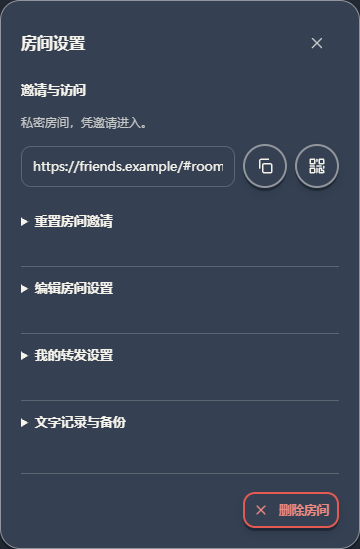
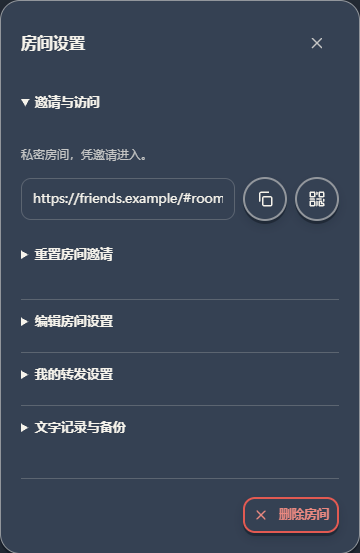
fix(ui): keep room management focused on one task

diff --git a/src/client/channel/components/ChannelRoomControls.tsx b/src/client/channel/components/ChannelRoomControls.tsx
@@ -1,4 +1,4 @@
-import { useEffect, useRef, useState } from "react";
+import { useEffect, useId, useRef, useState, type ToggleEvent } from "react";
 import { useAnchoredPopover } from "../../components/living/use-anchored-popover";
 import { Tooltip } from "../../components/living/Tooltip";
 import { Btn, SwitchItem } from "../../components/living/primitives";
@@ -134,6 +134,11 @@ export function ChannelRoomControls({ channel, room, onCreated }: {
   const invitationCopy = useClipboardResult(invite);
   const [backupAvailable, setBackupAvailable] = useState(false);
   const id = room ? "c3-room-settings" : "c3-create-room";
+  const taskGroup = useId();
+  const revealTask = (event: ToggleEvent<HTMLDetailsElement>) => {
+    if (event.target === event.currentTarget && event.newState === "open" && panel.current?.matches(":popover-open"))
+      event.currentTarget.querySelector("summary")?.scrollIntoView({ block: "nearest" });
+  };
   const title = room ? (zh ? "房间设置" : "Room settings") : (zh ? "创建房间" : "Create room");
   const triggerTitle = room ? (zh ? "房间选项" : "Room options") : title;
   useAnchoredPopover(trigger, panel, { side: "below", align: "end" });
@@ -178,11 +183,11 @@ export function ChannelRoomControls({ channel, room, onCreated }: {
     <div ref={panel} id={id} popover="auto" role="dialog" aria-label={title}
       className="lr-anchored-card c3-room-panel" onToggle={event => { if (event.target === event.currentTarget) setOpen(event.newState === "open"); }}>
       {open && <><header className="c3-settings-heading"><h3>{title}</h3>
-        <ChannelAction icon="x" iconOnly quiet label={zh ? "关闭" : "Close"} onClick={() => panel.current?.hidePopover()} /></header>
+        <ChannelAction icon="x" iconOnly quiet hint="hint-close" label={zh ? "关闭" : "Close"} onClick={() => panel.current?.hidePopover()} /></header>
       {room && !room.available && <p>{room.canManage ? (zh ? "房间当前未托管，可以从域中移除。" : "This room is offline. You can remove it from the domain.")
         : (zh ? "房间当前未托管，恢复后可调整转发设置。" : "The room is offline. Forwarding settings will be available when hosting resumes.")}</p>}
-      {room && <section className="c3-settings-access" aria-label={zh ? "邀请与访问" : "Invitation and access"}>
-        <h4>{zh ? "邀请与访问" : "Invitation and access"}</h4>
+      {room && <details className="c3-settings-details c3-settings-access" name={taskGroup} onToggle={revealTask} open>
+        <summary>{zh ? "邀请与访问" : "Invitation and access"}</summary>
         <p>{room.access === "public" ? (zh ? "公开房间，域内用户都可进入。" : "Public room. Anyone in this domain can enter.")
           : room.hasPassword ? (zh ? "私密房间，凭邀请或密码进入。" : "Private room. Enter with an invitation or password.")
             : (zh ? "私密房间，凭邀请进入。" : "Private room. Enter with an invitation.")}
@@ -213,8 +218,8 @@ export function ChannelRoomControls({ channel, room, onCreated }: {
                 busy={channel.pending.has(`revoke:${room.id}:${userId}`)} disabled={!available || working}
                 onClick={() => run(channel.revokeRoomAccess(room.id, userId))} /></div>)}
         </details>}
-      </section>}</section>}
-      {(!room || room.canManage) && <details className="c3-settings-details c3-settings-editor" open={!room || undefined} hidden={!!room && !room.available}>
+      </section>}</details>}
+      {(!room || room.canManage) && <details className="c3-settings-details c3-settings-editor" name={taskGroup} onToggle={revealTask} open={!room || undefined} hidden={!!room && !room.available}>
         <summary>{room ? (zh ? "编辑房间设置" : "Edit room settings") : (zh ? "新房间" : "New room")}</summary>
         <RoomForm key={`form:${room?.delivery?.bindingId ?? room?.id ?? "create"}`} room={room} appHosted={channel.appConnected} disabled={!available || working} busy={busy} onCancel={() => panel.current?.hidePopover()} onSave={async settings => {
           const form = panel.current?.querySelector("form");
@@ -223,10 +228,10 @@ export function ChannelRoomControls({ channel, room, onCreated }: {
           if (panel.current?.matches(":popover-open") && panel.current.querySelector("form") === form) panel.current.hidePopover();
         }} />
       </details>}
-      {room?.authorized && <details className="c3-settings-details"><summary>{zh ? "我的转发设置" : "My forwarding settings"}</summary>
+      {room?.authorized && <details className="c3-settings-details" name={taskGroup} onToggle={revealTask}><summary>{zh ? "我的转发设置" : "My forwarding settings"}</summary>
         <PersonalRelay channel={channel} room={room} disabled={!available || working} />
       </details>}
-      {(!room || room.authorized || room.canManage) && <details className="c3-settings-details"><summary>{room ? (zh ? "文字记录与备份" : "Chat text and backups") : (zh ? "从备份导入房间" : "Import a room backup")}</summary>
+      {(!room || room.authorized || room.canManage) && <details className="c3-settings-details" name={taskGroup} onToggle={revealTask}><summary>{room ? (zh ? "文字记录与备份" : "Chat text and backups") : (zh ? "从备份导入房间" : "Import a room backup")}</summary>
         {room?.authorized && <RoomChatExport messages={channel.messagesByRoom[room.id] ?? []} users={channel.state?.users ?? []} />}
         {(!room || room.canManage) && <BackupControls key={room?.id ?? "import"} available={!room || backupAvailable} disabled={!available || busy || removing || (!!room && !backupAvailable)}
           busy={backupBusy} replacing={!!room}

diff --git a/src/client/channel/components/ChannelDomainControls.tsx b/src/client/channel/components/ChannelDomainControls.tsx
@@ -1,4 +1,4 @@
-import { useEffect, useId, useRef, useState } from "react";
+import { useEffect, useId, useRef, useState, type ToggleEvent } from "react";
 import { createPortal } from "react-dom";
 import { useAnchoredPopover } from "../../components/living/use-anchored-popover";
 import { Tooltip } from "../../components/living/Tooltip";
@@ -41,6 +41,10 @@ export function ChannelDomainControls({ channel, triggerSlot }: { channel: Chann
     setPassword(""); setRemovePassword(false); setInviteReset(false);
   };
   const title = zh ? "域设置" : "Domain settings";
+  const revealTask = (event: ToggleEvent<HTMLDetailsElement>) => {
+    if (event.target === event.currentTarget && event.newState === "open" && panel.current?.matches(":popover-open"))
+      event.currentTarget.querySelector("summary")?.scrollIntoView({ block: "nearest" });
+  };
   useAnchoredPopover(trigger, panel, { side: "below", align: "end" });
   useEffect(() => { if (!owner) setPassword(""); }, [owner]);
   return <>
@@ -56,9 +60,9 @@ export function ChannelDomainControls({ channel, triggerSlot }: { channel: Chann
         if (event.newState === "closed") { setImageBusy(false); setPassword(""); }
       }}>
       {open && <><header className="c3-settings-heading"><h3>{title}</h3>
-        <ChannelAction icon="x" iconOnly quiet label={zh ? "关闭" : "Close"} onClick={() => panel.current?.hidePopover()} /></header>
-      <section className="c3-settings-access" aria-label={zh ? "邀请与访问" : "Invitation and access"}>
-        <h4>{zh ? "邀请与访问" : "Invitation and access"}</h4>
+        <ChannelAction icon="x" iconOnly quiet hint="hint-close" label={zh ? "关闭" : "Close"} onClick={() => panel.current?.hidePopover()} /></header>
+      <details className="c3-settings-details c3-settings-access" name={`${id}-task`} onToggle={revealTask} open>
+        <summary>{zh ? "邀请与访问" : "Invitation and access"}</summary>
         <p>{!current ? (zh ? "域连接暂不可用。" : "The domain connection is unavailable.")
           : current.access === "public" ? (zh ? "公开域，任何人可通过域地址进入。" : "Public domain. Anyone with its address can enter.")
             : current.hasPassword ? (zh ? "私密域，凭邀请或口令进入。" : "Private domain. Enter with an invitation or passphrase.")
@@ -81,8 +85,8 @@ export function ChannelDomainControls({ channel, triggerSlot }: { channel: Chann
             }} />
           {inviteReset && <p role="status">{zh ? "域邀请已更新，请复制新的邀请。" : "Domain invitation updated. Copy the new invitation."}</p>}
         </details>}
-      </section>
-      <details className="c3-settings-details c3-settings-editor"><summary>{zh ? "编辑域设置" : "Edit domain settings"}</summary>
+      </details>
+      <details className="c3-settings-details c3-settings-editor" name={`${id}-task`} onToggle={revealTask}><summary>{zh ? "编辑域设置" : "Edit domain settings"}</summary>
       <form className="c3-room-form" onKeyDown={event => {
         if (event.key === "Enter" && event.nativeEvent.isComposing) event.preventDefault();
       }} onSubmit={event => {
@@ -117,7 +121,7 @@ export function ChannelDomainControls({ channel, triggerSlot }: { channel: Chann
           <ChannelAction icon="check" primary type="submit" label={zh ? "保存" : "Save"} busy={busy} disabled={disabled || imageBusy || !name.trim()} />
         </div>
       </form></details>
-      <details className="c3-settings-details"><summary>{zh ? "域备份" : "Domain backup"}</summary>
+      <details className="c3-settings-details" name={`${id}-task`} onToggle={revealTask}><summary>{zh ? "域备份" : "Domain backup"}</summary>
       <BackupControls kind="domain" busy={backupBusy} disabled={unavailable || busy || inviteBusy}
         onExport={channel.exportDomainBackup} onRestore={async file => {
           setPassword("");

diff --git a/src/client/channel/components/channel-room-controls.css b/src/client/channel/components/channel-room-controls.css
@@ -2,12 +2,13 @@
 .c3-room-panel h3 { font-size: 16px; margin: 0 0 18px; }
 .c3-settings-heading { display: flex; align-items: center; justify-content: space-between; gap: 12px; margin-bottom: 16px; }
 .c3-settings-heading h3 { margin: 0; }
-.c3-settings-access { display: grid; gap: 12px; }
-.c3-settings-access h4 { margin: 0; font-size: 13px; }
+.c3-settings-access > :not(summary) { margin-top: 12px; }
 .c3-invite-actions { display: flex; align-items: center; flex-wrap: wrap; gap: 8px; }
 .c3-settings-details { min-width: 0; }
 .c3-settings-details > summary { min-height: var(--control-size); padding-block: 12px; font-size: 13px; font-weight: 600; cursor: pointer; }
-.c3-room-panel > .c3-settings-details { margin-top: 14px; border-top: 1px solid var(--line); }
+.c3-room-panel > .c3-settings-details { border-top: 1px solid var(--line); }
+.c3-room-panel > .c3-settings-access { border-top: 0; }
+.c3-room-panel > .c3-settings-details[open] { padding-bottom: 14px; }
 .c3-settings-details[open] > :not(summary) { margin-top: 12px; }
 .c3-settings-details > :is(.c3-room-relay, .c3-room-transcript, .c3-backup-controls) { border-top: 0; padding-top: 0; }
 .c3-settings-access .c3-room-invitation { margin: 0; padding: 0; border: 0; }
